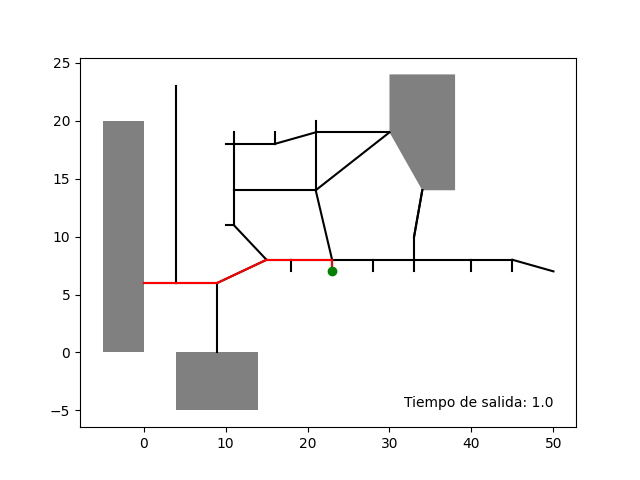
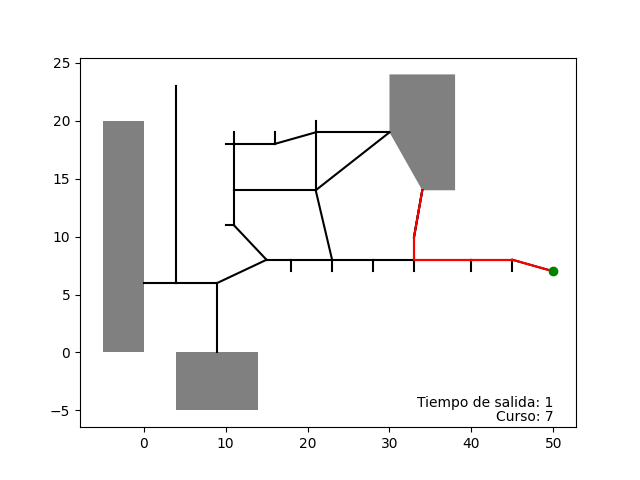
Sensibilidad

diff --git a/main.py b/main.py
@@ -10,8 +10,11 @@ import json
 
 
 # definimos el modelo, despues se ejecuta desde la linea 280
-def optimizar(carpeta_parametros, multiplicador, tiempo_max = None, final = False,
-               mult_capacidad_pasillo = 1, mult_vel = 1, mult_tamano_curso = 1):
+def optimizar(carpeta_parametros, multiplicador, tiempo_max = None, final = False, param = None, variacion = 1):
+    
+    sens = {'z': 1, 'x': 1, 'd': 1, 'v': 1, 'c': 1, 'o': 1, 'k': 1, 'n': 1, 'q': 1, 'm': 1, 'a': 1, 'r': 1}
+
+    sens[param] = variacion
     # PARAMETROS
     print(f"Modelo con velocidad x{multiplicador} para encontrar cota de tiempo")
     # Z_iy: pasillos a zonas seguras (1 = el pasillo i llega a la zona segura y | 0 = e.o.c.)
@@ -19,23 +22,41 @@ def optimizar(carpeta_parametros, multiplicador, tiempo_max = None, final = Fals
     # c_ij: connexiones de pasillos (1 = los pasillos i y j estan conectados | 0 = e.o.c.)
     x = pd.read_csv(f'{carpeta_parametros}/conexion_pasillos.csv', header=None).to_numpy()
     # d_i: distancia del pasillo i
-    d = pd.read_csv(f'{carpeta_parametros}/distancia_pasillos.csv', header=None).iloc[:,0]
+    d = pd.read_csv(f'{carpeta_parametros}/distancia_pasillos.csv', header=None).iloc[:,0] * sens['d']
     # v_ci: velocidad máxima del curso c por el pasillo i
-    v = pd.read_csv(f'{carpeta_parametros}/velocidad_cursos.csv', header=None).to_numpy() * mult_vel
+    v = pd.read_csv(f'{carpeta_parametros}/velocidad_cursos.csv', header=None).to_numpy() * sens['v']
     # o_ic: pasillo de origen de los cursos (1 = el pasillo i es el pasillo de origen del curso c | 0 = e.o.c.)
-    o = pd.read_csv(f'{carpeta_parametros}/pasillo_origen.csv', header=None).to_numpy()
+    o = pd.read_csv(f'{carpeta_parametros}/pasillo_origen.csv', header=None).to_numpy() 
     # k_i: capacidad máxima del pasillo i
-    k = pd.read_csv(f"{carpeta_parametros}/capacidad_pasillos.csv", header=None).iloc[:,0] * mult_capacidad_pasillo
+    k = pd.read_csv(f"{carpeta_parametros}/capacidad_pasillos.csv", header=None).iloc[:,0] * sens['k']
     # n_c: cantidad de personas en el curso c
-    n = pd.read_csv(f"{carpeta_parametros}/cantidad_curso.csv", header=None).iloc[:,0] * mult_tamano_curso
+    n = pd.read_csv(f"{carpeta_parametros}/cantidad_curso.csv", header=None).iloc[:,0] * sens['n']
     # q_y: capacidad máxima de la zona segura y
-    q = pd.read_csv(f'{carpeta_parametros}/capacidad_zona.csv', header=None).iloc[:,0]
+    q = pd.read_csv(f'{carpeta_parametros}/capacidad_zona.csv', header=None).iloc[:,0] * sens['q']
     # m_c: discapacitados del curso (1 = el curso c tiene algún discapacitado | 0 = e.o.c.)
-    m = pd.read_csv(f'{carpeta_parametros}/discapacitado_curso.csv', header=None).iloc[:,0]
+    m = pd.read_csv(f'{carpeta_parametros}/discapacitado_curso.csv', header=None).iloc[:,0] 
     # a_i: pasillo apto para discapacitados (1 = el pasillo i es apto para discapacitados | 0 = e.o.c.)
-    a = pd.read_csv(f"{carpeta_parametros}/discapacitado_pasillo.csv", header=None).iloc[:,0]
+    a = pd.read_csv(f"{carpeta_parametros}/discapacitado_pasillo.csv", header=None).iloc[:,0] 
     # r_cy: responsables zonas, (1 = dentro del curso c se encuantra un responzable de la zona y | 0 = e.o.c)
-    r = pd.read_csv(f'{carpeta_parametros}/responsable_zona_curso.csv', header=None).to_numpy()
+    r = pd.read_csv(f'{carpeta_parametros}/responsable_zona_curso.csv', header=None).to_numpy() 
+
+    param_binario = {'z': z, 'x': x, 'o': o, 'm': m, 'a': a, 'r': r}
+
+    if param in param_binario:
+        print('meemm')
+        if variacion == 1:
+            #Hacer que todos sean 1 en el paramentro
+            param_binario[param] = pd.DataFrame(param_binario[param]).applymap(lambda x: 1).to_numpy()
+        else:
+            #Hacer que todos sean 0 en el parametro
+            param_binario[param] = pd.DataFrame(param_binario[param]).applymap(lambda x: 0).to_numpy()
+
+    z = param_binario['z']
+    x = param_binario['x']
+    o = param_binario['o']
+    m = param_binario['m']
+    a = param_binario['a']
+    r = param_binario['r']
 
     # CONJUNTOS
 
@@ -293,7 +314,8 @@ def optimizar(carpeta_parametros, multiplicador, tiempo_max = None, final = Fals
 
                     json.dump(pasillos_utilizados, archivo)
 
-                mostrar_animacion(c, pasillos_utilizados, s[c].X)
+                mostrar_solucion(c, pasillos_utilizados, s[c].X, param, variacion, landa=landa.X)
+                mostrar_animacion(c, pasillos_utilizados, s[c].X, param, variacion, landa=landa.X)
 
                 solucion[c] = pasillos_utilizados
 
@@ -348,8 +370,49 @@ tiempos = {}
 for i in multiplicadores:
     tiempos[i] = 0
 
+print('------------------------------')
+print('Las opciones de parametros son:')
+print('z: pasillos a zonas seguras')
+print('d: distancia del pasillo')
+print('v: velocidad máxima del curso')
+print('k: capacidad máxima del pasillo')
+print('n: cantidad de personas en el curso')
+print('q: capacidad máxima de la zona segura')
+print('m: discapacitados del curso')
+print('a: pasillo apto para discapacitados')
+print('r: responsables zonas')
+print('Normal: No se varia ningun parametro')
+print('------------------------------\n\n')
 
-tiempo_max = optimizar(carpeta_parametros=carpeta_parametros, multiplicador= multiplicadores[0], final=False)
+param = input('Ingrese el parametro que desea variar: ')
+
+if param not in ['z', 'd', 'v', 'k', 'n', 'q', 'm', 'a', 'r', 'Normal']:
+    print('El parametro ingresado no es correcto')
+    exit()
+
+print('------------------------------\n\n')
+print('Las opciones de variacion son:\n\n')
+
+if param in ['z', 'm', 'a', 'r']:
+
+    print('Parametros binarios:')
+    print('1: Hacer que todos sean 1 en el parametro')
+    print('0: Hacer que todos sean 0 en el parametro')
+
+else:
+
+    print('Multiplicar el parametro por un valor')
+
+print('------------------------------\n\n')
+
+if param == 'Normal':
+    variacion = 1
+else:
+    variacion = float(input('Ingrese la variacion que desea para el parametro: '))
+
+
+tiempo_max = optimizar(carpeta_parametros=carpeta_parametros, multiplicador= multiplicadores[0],
+                        param=param, variacion=variacion, final=False)
 
 print(f'------------------------------\n\n')
 print(f"| Tiempo máximo: {tiempo_max} |")
@@ -361,10 +424,12 @@ for i in multiplicadores:
 
     if i == multiplicadores[-1]:
 
-        optimizar(carpeta_parametros=carpeta_parametros, multiplicador= i, tiempo_max=tiempo_max, final=True)
+        optimizar(carpeta_parametros=carpeta_parametros, multiplicador= i,
+                   tiempo_max=tiempo_max, param=param, variacion=variacion, final=True)
         break
 
-    tiempo_max = optimizar(carpeta_parametros=carpeta_parametros, multiplicador= i, tiempo_max=tiempo_max, final=False)
+    tiempo_max = optimizar(carpeta_parametros=carpeta_parametros, multiplicador= i, tiempo_max=tiempo_max,
+                            param=param, variacion=variacion, final=False)
 
     print(f'------------------------------\n\n')
     print(f"| Tiempo máximo: {tiempo_max} |")

diff --git a/visualizacion.py b/visualizacion.py
@@ -1,11 +1,22 @@
 import pandas as pd
 import matplotlib.pyplot as plt
+import json
+import os
 
 
-def mostrar_solucion(c, pasillos_utilizados, t_salida):
+def mostrar_solucion(c, pasillos_utilizados, t_salida, param = '', variacion = '', landa = None):
+
+    
+    plt.clf()
+    plt.cla()
+    plt.close()
+    
 
     coordenadas_pasillos = pd.read_csv('parametros_dsla_parvulario/coordenadas_pasillos.csv', header=None)
     # columna 1 es la coordenada x del vertice pasillo y columna 2 es la coordenada y del vertice del pasillo la columna3 la coordenada x del vertice siguiente y la columna 4 la coordenada y del vertice siguiente
+    intervalos = []
+    for t in pasillos_utilizados:
+        intervalos.append(t)
 
     #diccionario con los pasillos y sus vertices
 
@@ -26,9 +37,11 @@ def mostrar_solucion(c, pasillos_utilizados, t_salida):
     
     for i in pasillos_utilizados:
 
-        plt.plot([pasillos[i][0][0], pasillos[i][1][0]], [pasillos[i][0][1], pasillos[i][1][1]], 'r-')
+        k = pasillos_utilizados[i]
 
-    origen = pasillos_utilizados[0]
+        plt.plot([pasillos[k][0][0], pasillos[k][1][0]], [pasillos[k][0][1], pasillos[k][1][1]], 'r-')
+
+    origen = pasillos_utilizados[intervalos[0]]
 
     plt.plot([pasillos[origen][0][0]], [pasillos[origen][0][1]], 'go')
 
@@ -47,13 +60,17 @@ def mostrar_solucion(c, pasillos_utilizados, t_salida):
     # Poner el tiempo de salida del curso abajo a la derecha
 
     plt.text(50, -5, f'Tiempo de salida: {t_salida}', ha='right', va='bottom')
+    plt.text(50, -5, f'Curso: {c}', ha='right', va='top')
+    plt.text(50, -2, f'Tiempo de evacuacion: {landa}', ha='right', va='bottom')
 
     # for i in range(len(pasillos)):
     #     plt.text((pasillos[i][0][0] + pasillos[i][1][0]) / 2, (pasillos[i][0][1] + pasillos[i][1][1]) / 2, str(i + 1), ha='center', va='center', color='orange')
 
-    plt.savefig(f'fotos/curso{c}')
+    os.makedirs(f'fotos_{param}_{variacion}', exist_ok=True)
 
-    plt.show()
+    plt.savefig(f'fotos_{param}_{variacion}/curso{c}')
+
+
 
     # reiniciar el grafico para siguiente curso
 
@@ -63,7 +80,38 @@ def mostrar_solucion(c, pasillos_utilizados, t_salida):
     
 
     
+if __name__ == '__main__':
 
+
+    # import las soluciones desde json con json
+
+    c = 13
+    soluciones = {}
+
+    for i in range(c):
+
+        with open(f'soluciones/curso{i}.json') as f:
+            print(f'Abriendo solucion {i}')
+            solucion = json.load(f)
+
+        pasillos_utilizados = {}
+
+        for i in solucion:
+
+            pasillos_utilizados[int(i)] = int(solucion[i])
+
+        soluciones[i] = pasillos_utilizados
+
+    print(soluciones)
+
+    for i in soluciones:
+
+        print(soluciones[i])
+        print(list(soluciones[i].keys())[0])
+
+        mostrar_solucion(i, soluciones[i], list(soluciones[i].keys())[0])
+
+        
     
 
 

diff --git a/animacion.py b/animacion.py
@@ -2,8 +2,9 @@ import pandas as pd
 import matplotlib.pyplot as plt
 from matplotlib.animation import FuncAnimation
 import json
+import os
 
-def mostrar_animacion(c, pasillos_utilizados, t_salida):
+def mostrar_animacion(c, pasillos_utilizados, t_salida, param = '', variacion = '', landa = None):
 
     print(pasillos_utilizados)
 
@@ -15,11 +16,20 @@ def mostrar_animacion(c, pasillos_utilizados, t_salida):
     
     print(intervalos)
 
+    labels = []
+
+
     pasillos = {}
     for i in range(len(coordenadas_pasillos)):
         pasillos[i] = [(coordenadas_pasillos[0][i], coordenadas_pasillos[1][i]), (coordenadas_pasillos[2][i], coordenadas_pasillos[3][i])]
 
     def update(t):
+
+        labels.append(plt.text(40, -5, f'Tiempo: {t}', fontsize=12))
+
+        if len(labels) > 1:
+            l = labels.pop(0)
+            l.remove()
 
         if t == 0:
 
@@ -45,12 +55,13 @@ def mostrar_animacion(c, pasillos_utilizados, t_salida):
             plt.plot([pasillos[origen][0][0]], [pasillos[origen][0][1]], 'go')
 
 
-
     fig = plt.figure(figsize=(10, 8))
     ani = FuncAnimation(fig, update, frames=range(15), interval=1000)
+
+    os.makedirs(f'animaciones_{param}_{variacion}', exist_ok=True)
     
     #Guardar la animacion en gif
-    ani.save(f'animaciones/curso{c}.gif', writer='pillow', fps=1)
+    ani.save(f'animaciones_{param}_{variacion}/curso{c}.gif', writer='pillow', fps=1)
 
 if __name__ == '__main__':
 
@@ -68,13 +79,12 @@ if __name__ == '__main__':
 
         pasillos_utilizados = {}
 
-        for i in solucion:
+        for c in solucion:
 
-            pasillos_utilizados[int(i)] = int(solucion[i])
+            pasillos_utilizados[int(c)] = int(solucion[c])
 
         soluciones[i] = pasillos_utilizados
 
-    print(soluciones)
 
     for i in soluciones:
 
